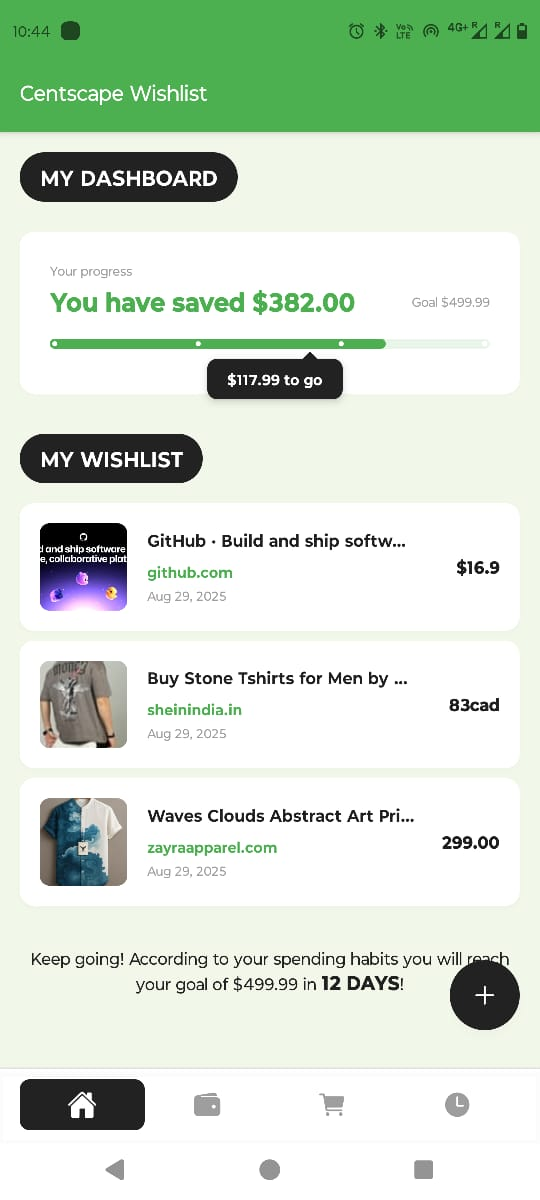
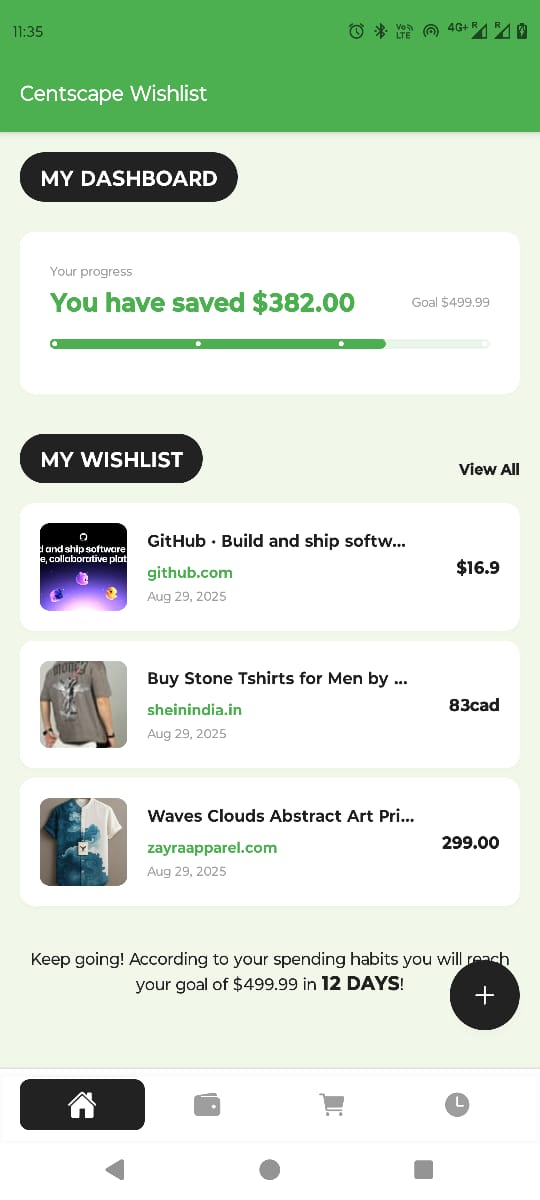
wishlist full page added
readme updated with latest screenshot and wishlist navigation and wishlist screen

diff --git a/app/src/screens/WishlistScreen.tsx b/app/src/screens/WishlistScreen.tsx
@@ -34,6 +34,7 @@ const WishlistScreen: React.FC = () => {
     item.sourceUrl.toLowerCase().includes(searchQuery.toLowerCase())
   );
 
+
   const handleItemDelete = useCallback(async (id: string) => {
     try {
       await deleteItem(id);
@@ -78,11 +79,13 @@ const WishlistScreen: React.FC = () => {
     }
   };
 
-  const renderItem = useCallback(({ item }: { item: any }) => (
-    <WishlistItem
-      item={item}
-    />
-  ), []);
+  const renderItem = useCallback(({ item }: { item: any }) => {
+    return (
+      <WishlistItem
+        item={item}
+      />
+    );
+  }, []);
 
   const renderEmptyState = () => (
     <View style={styles.emptyState}>
@@ -114,7 +117,7 @@ const WishlistScreen: React.FC = () => {
   }
 
   return (
-    <SafeAreaView style={styles.container}>
+    <SafeAreaView style={styles.container} edges={['left', 'right']}>
       {/* Header */}
       <View style={styles.header}>
         <View style={styles.headerContent}>
@@ -187,17 +190,26 @@ const WishlistScreen: React.FC = () => {
         </View>
       )}
 
+    {/* Debug Info */}
+      <View style={styles.debugContainer}>
+        <Text style={styles.debugText}>
+          Total: {items.length} | Filtered: {filteredItems.length} | Search: "{searchQuery}"
+        </Text>
+      </View>
+
       {/* Items List */}
-      <View style={styles.listContainer}>
+      <View style={styles.listWrapper}>
         <FlashList
           data={filteredItems}
           renderItem={renderItem}
           keyExtractor={(item) => item.id}
           estimatedItemSize={120}
-          showsVerticalScrollIndicator={false}
+          showsVerticalScrollIndicator={true}
           contentContainerStyle={styles.listContent}
           ListEmptyComponent={renderEmptyState}
           ItemSeparatorComponent={() => <View style={styles.separator} />}
+          onEndReached={() => console.log('Reached end of list')}
+          onEndReachedThreshold={0.1}
         />
       </View>
 
@@ -295,11 +307,26 @@ const styles = StyleSheet.create({
     marginLeft: theme.spacing.sm,
     flex: 1,
   },
-  listContainer: {
+  debugContainer: {
+    backgroundColor: theme.colors.warning + '20',
+    padding: theme.spacing.sm,
+    marginHorizontal: theme.spacing.lg,
+    marginTop: theme.spacing.sm,
+    borderRadius: theme.borderRadius.sm,
+  },
+  debugText: {
+    fontSize: 12,
+    color: theme.colors.warning,
+    textAlign: 'center',
+  },
+  listWrapper: {
     flex: 1,
+    minHeight: 0, // Important for FlashList
   },
   listContent: {
-    padding: theme.spacing.lg,
+    paddingHorizontal: theme.spacing.lg,
+    paddingTop: theme.spacing.md,
+    paddingBottom: theme.spacing.xxl, // Extra padding for FAB
   },
   separator: {
     height: theme.spacing.md,

diff --git a/app/src/screens/HomeScreen.tsx b/app/src/screens/HomeScreen.tsx
@@ -66,7 +66,13 @@ const HomeScreen: React.FC = () => {
 
         {/* Wishlist Section */}
         <View style={styles.wishlistSection}>
-          <Text style={styles.sectionTitle}>MY WISHLIST</Text>
+          <View style={styles.wishlistSectionHeader}>
+            <Text style={styles.sectionTitle}>MY WISHLIST</Text>
+            <TouchableOpacity onPress={() => navigation.navigate('Wishlist')}>
+              <Text style={styles.viewAll}>View All</Text>
+            </TouchableOpacity>
+          </View>
+          
           
           {recentItems.length > 0 ? (
             recentItems.map((item) => (
@@ -132,6 +138,11 @@ const styles = StyleSheet.create({
     paddingHorizontal: theme.spacing.md,
     marginTop: theme.spacing.lg,
   },
+  wishlistSectionHeader: {
+    flexDirection: 'row',
+    justifyContent: 'space-between',
+    alignItems: 'center',
+  },
   sectionTitle: {
     ...theme.typography.h2,
     backgroundColor: theme.colors.text,
@@ -143,6 +154,11 @@ const styles = StyleSheet.create({
     alignSelf: 'flex-start',
     overflow: 'hidden',
     marginBottom: theme.spacing.md,
+  },
+  viewAll: {
+    ...theme.typography.bodySmall,
+    color: theme.colors.text,
+    fontWeight: 'bold',
   },
   emptyState: {
     alignItems: 'center',

diff --git a/README.md b/README.md
@@ -9,6 +9,7 @@ A full-stack wishlist application built with React Native + Expo (TypeScript) fo
 | Screen | Description |
 |--------|-------------|
 | ![Home Screen](screenshots/home_screen.jpeg) | **Home Screen** - Dashboard with progress tracking and recent items |
+| ![Wishlist Screen](screenshots/wishlist_screen.jpeg) | **Wishlist Screen** - Scrollable list of saved items with search functionality |
 | ![Add to Wishlist](screenshots/add_to_wishlist_screen.jpeg) | **Add to Wishlist** - URL input and preview functionality |
 | ![Preview Screen](screenshots/preview_screen.jpeg) | **Preview Screen** - Product preview with extracted data |
 | ![Loading Preview](screenshots/loading_preview_screen.jpeg) | **Loading Preview** - Loading state while fetching product data |
